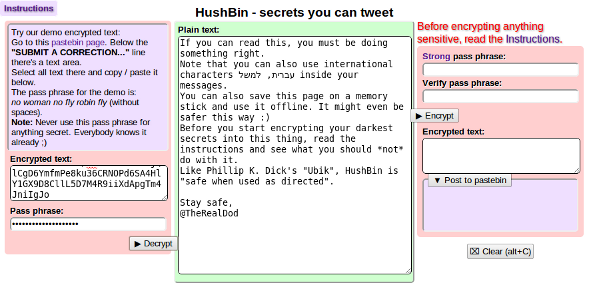
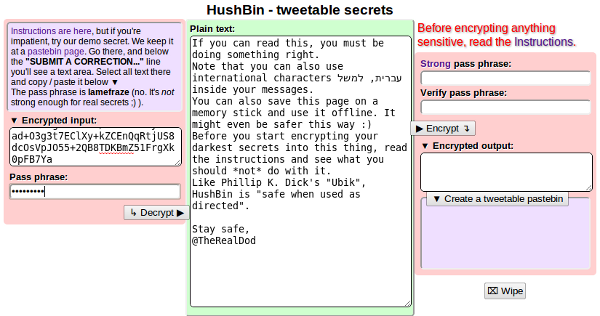
Momo's gui remarks

diff --git a/tidy.html b/tidy.html
@@ -7,7 +7,7 @@
   <meta http-equiv="Content-Type" content=
   "text/html; charset=us-ascii">
 
-  <title>HushBin - secrets you can tweet</title>
+  <title>HushBin - tweetable secrets</title>
   <style type="text/css">
 /*<![CDATA[*/
   /* Based on http://oocss.org */
@@ -29,12 +29,10 @@
   .page{width:auto}
   .rightCol{width:250px}
   .unit{margin:2px;padding: 4px;}
-  .leftCol{margin-right:4px}
-  .rightCol{margin-left:4px}
   /* Own styles */
   a {text-decoration:none}
   a:hover {text-decoration:underline}
-  .online{background-color:#efdfff; font-size:80%}
+  .online{background-color:#efdfff; font-size:12px}
   .crypt{background-color:#ffcfcf}
   .plainText{background-color:#cfffcf}
   .spiffy{color:#ff0000;text-shadow:gray 1px 1px 3px}
@@ -42,13 +40,12 @@
   .maxWidth{width:99%}
   .noScrollBar{overflow-y:hidden}
   .online,.crypt,.plainText,.maxWidth{-moz-border-radius:5px;-webkit-border-radius:5px}
-  #help{position:fixed;left:0;top:0;padding:4px 6px;font-weight:bold;border:solid white 1px;z-index:23}
   .inset{border:inset #efefef 2px}
   .outset{border:outset #efefef 2px}
   .pbResult{width:99%;height:60px;border:none}
   .head{font-weight:bold;text-align:center;font-size:120%}
-  .decButton{width:100%;text-align:right;position:relative;left:20px;top:4px}
-  .encButton{position:relative;left:-20px;top:4px}
+  .decButton{width:100%;text-align:right;position:relative;left:16px;top:4px}
+  .encButton{position:relative;left:-16px;top:4px}
   .pbButton{position:relative;top:-16px}
   .clearDiv{text-align:center;padding:8px 0}
   .clearButton{padding:2px}
@@ -175,9 +172,6 @@
   return true}
   show_message("Encrypt something first");
   return false}
-  // clear inputs
-  function _clear_aux(v){for (i in v) try{if (v[i].type=='password'||v[i].type.slice(0,4)=='text') v[i].value=''}catch(e){}}
-  function clear_inputs(){_clear_aux($$$('input'));_clear_aux($$$('textarea'))}
   // kb handlers
   function nop(){return false};
   function run_if_enter(f){if (window.event && window.event.keyCode==13){return f() && false}; return true}
@@ -191,13 +185,8 @@
 
 <body onload="init()">
   <div class="page">
-    <div id="help" class="online spiffy">
-      <a href=
-      "http://wiki.github.com/thedod/hushbin/">Instructions</a>
-    </div>
-
     <div class="head">
-      HushBin - secrets you can tweet
+      HushBin - tweetable secrets
     </div>
 
     <div class="body">
@@ -206,22 +195,25 @@
           <div class="unit crypt lastUnit">
             <div class="line">
               <div class="unit online inset lastUnit">
-                Try our demo encrypted text: Go to this <a href=
-                "http://pastebin.com/aNQiMXTZ">pastebin page</a>.
-                Below the <strong>"SUBMIT A CORRECTION..."</strong>
-                line there's a text area. Select all text there and
-                copy / paste it below.<br>
-                The pass phrase for the demo is: <em>no woman no
-                fly robin fly</em> (without spaces).<br>
-                <strong>Note:</strong> Never use this pass phrase
-                for anything secret. Everybody knows it already ;)
+                <a href=
+                "http://wiki.github.com/thedod/hushbin/">Instructions
+                are here</a>, but if you're impatient, try our demo
+                secret. We keep it at a <a href=
+                "http://pastebin.com/6YHi7Jxa">pastebin page</a>.
+                Go there, and below the <strong>"SUBMIT A
+                CORRECTION..."</strong> line you'll see a text
+                area. Select all text there and copy / paste it
+                below &#9660;<br>
+                The pass phrase is <strong>lamefraze</strong> (no.
+                It's <em>not</em> strong enough for real secrets ;)
+                ).
               </div>
             </div>
 
             <div class="line">
               <div class="unit lastUnit">
                 <div class="formLabel">
-                  Encrypted text:
+                  &#9660; Encrypted input:
                 </div>
 
                 <div>
@@ -243,7 +235,7 @@
 
                 <div class="decButton">
                   <input tabindex="3" onclick="do_decrypt()" type=
-                  "button" value="&#9654; Decrypt">
+                  "button" value="&#8627; Decrypt &#9654;">
                 </div>
               </div>
             </div>
@@ -252,9 +244,11 @@
       </div>
 
       <div class="rightCol">
-        <div class="spiffy">
-          Before encrypting anything sensitive, read the <a href=
-          "http://wiki.github.com/thedod/hushbin/">Instructions</a>.
+        <div class="line">
+          <div class="unit size1of1 spiffy lastUnit">
+            Before encrypting anything sensitive, read the <a href=
+            "http://wiki.github.com/thedod/hushbin/">Instructions</a>.
+          </div>
         </div>
 
         <div class="line">
@@ -284,7 +278,7 @@
 
                 <div class="encButton">
                   <input tabindex="7" onclick="do_encrypt()" type=
-                  "button" value="&#9654; Encrypt">
+                  "button" value="&#9654; Encrypt &#8628;">
                 </div>
               </div>
             </div>
@@ -296,7 +290,7 @@
                 "return run_if_enter(nop)" onsubmit=
                 "return validate_pastebin_form()" name="pb_form">
                   <div class="formLabel">
-                    Encrypted text:
+                    &#9660; Encrypted output:
                   </div>
 
                   <div>
@@ -311,13 +305,13 @@
                     <div class=
                     "unit size1of1 lastUnit online inset">
                       <input type="hidden" name="paste_name" value=
-                      "github/thedod/hushbin"> <input type="hidden"
-                      name="paste_private" value="1">
+                      "bit.ly/hushbin"> <input type="hidden" name=
+                      "paste_private" value="1">
 
                       <div class="pbButton">
                         <input tabindex="9" id="pastebin_button"
                         type="submit" value=
-                        "&#9660; Post to pastebin">
+                        "&#9660; Create a tweetable pastebin">
                       </div><iframe class="pbResult" id="pb_result"
                       name="pb_result"></iframe>
                     </div>
@@ -329,8 +323,8 @@
 
           <div class="clearDiv">
             <input tabindex="10" type="button" class="clearButton"
-            onclick="clear_inputs()" value="&#8999; Clear"
-            accesskey="c">
+            onclick="window.location.reload()" value="&#8999; Wipe"
+            accesskey="w">
           </div>
         </div>
       </div>
@@ -341,7 +335,7 @@
             <div class="formLabel">
               Plain text:
             </div>
-            <textarea tabindex="4" cols="23" rows="25" id=
+            <textarea tabindex="4" cols="23" rows="23" id=
             "plaintext" class="maxWidth">
 </textarea>
           </div>

diff --git a/hushbin.html b/hushbin.html
@@ -2,7 +2,7 @@
 <html lang="en">
 <head>
 <meta http-equiv="Content-Type" content="text/html; charset=utf-8"/>
-<title>HushBin - secrets you can tweet</title>
+<title>HushBin - tweetable secrets</title>
 <style type="text/css">
 /*<![CDATA[*/
 /* Based on http://oocss.org */
@@ -24,12 +24,10 @@ body{_text-align:center;}/* IE5.5 */
 .page{width:auto}
 .rightCol{width:250px}
 .unit{margin:2px;padding: 4px;}
-.leftCol{margin-right:4px}
-.rightCol{margin-left:4px}
 /* Own styles */
 a {text-decoration:none}
 a:hover {text-decoration:underline}
-.online{background-color:#efdfff; font-size:80%}
+.online{background-color:#efdfff; font-size:12px}
 .crypt{background-color:#ffcfcf}
 .plainText{background-color:#cfffcf}
 .spiffy{color:#ff0000;text-shadow:gray 1px 1px 3px}
@@ -37,13 +35,12 @@ a:hover {text-decoration:underline}
 .maxWidth{width:99%}
 .noScrollBar{overflow-y:hidden}
 .online,.crypt,.plainText,.maxWidth{-moz-border-radius:5px;-webkit-border-radius:5px}
-#help{position:fixed;left:0;top:0;padding:4px 6px;font-weight:bold;border:solid white 1px;z-index:23}
 .inset{border:inset #efefef 2px}
 .outset{border:outset #efefef 2px}
 .pbResult{width:99%;height:60px;border:none}
 .head{font-weight:bold;text-align:center;font-size:120%}
-.decButton{width:100%;text-align:right;position:relative;left:20px;top:4px}
-.encButton{position:relative;left:-20px;top:4px}
+.decButton{width:100%;text-align:right;position:relative;left:16px;top:4px}
+.encButton{position:relative;left:-16px;top:4px}
 .pbButton{position:relative;top:-16px}
 .clearDiv{text-align:center;padding:8px 0}
 .clearButton{padding:2px}
@@ -170,9 +167,6 @@ if ($$('out-cipher').value.trim().length){
 return true}
 show_message("Encrypt something first");
 return false}
-// clear inputs
-function _clear_aux(v){for (i in v) try{if (v[i].type=='password'||v[i].type.slice(0,4)=='text') v[i].value=''}catch(e){}}
-function clear_inputs(){_clear_aux($$$('input'));_clear_aux($$$('textarea'))}
 // kb handlers
 function nop(){return false};
 function run_if_enter(f){if (window.event && window.event.keyCode==13){return f() && false}; return true}
@@ -185,34 +179,31 @@ for (i in linx){l=linx[i]; if (l.href && !l.href.match('#'))l.target='_blank'}}
 </head>
 <body onload="init()">
 <div class="page">
-<div id="help" class="online spiffy">
-<a href="http://wiki.github.com/thedod/hushbin/">Instructions</a></div>
 <div class="head">
-HushBin - secrets you can tweet</div>
+HushBin - tweetable secrets</div>
 <div class="body">
 <div class="leftCol">
 <div class="line"><div class="unit crypt lastUnit">
 <div class="line"><div class="unit online inset lastUnit">
-Try our demo encrypted text: Go to this <a href="http://pastebin.com/aNQiMXTZ">pastebin page</a>.
-Below the <strong>"SUBMIT A CORRECTION..."</strong>
-line there's a text area. Select all text there and copy / paste it below.<br/>
-The pass phrase for the demo is:
-<em>no woman no fly robin fly</em> (without
-spaces).<br/>
-<strong>Note:</strong> Never use this pass phrase
-for anything secret. Everybody knows it already ;)</div></div>
+<a href="http://wiki.github.com/thedod/hushbin/">Instructions are here</a>, but if you're impatient,
+try our demo secret. We keep it at a <a href="http://pastebin.com/6YHi7Jxa">pastebin page</a>.
+Go there, and below the <strong>"SUBMIT A CORRECTION..."</strong> line you'll see a text area.
+Select all text there and copy / paste it below &#9660;<br/>
+The pass phrase is <strong>lamefraze</strong> (no. It's <em>not</em> strong enough for real secrets ;) ).
+</div></div>
 <div class="line">
 <div class="unit lastUnit">
 <div class="formLabel">
-Encrypted text:</div>
+&#9660; Encrypted input:</div>
 <div>
 <textarea tabindex="1" id="in-cipher" cols="5" rows="3" class="maxWidth noScrollBar" onclick="this.select()"></textarea></div>
 <div class="formLabel">Pass phrase:</div>
 <div><input tabindex="2" class="maxWidth" type="password" id="in-key" onkeypress="run_if_enter(do_decrypt)"/></div>
 <div class="decButton">
-<input tabindex="3" onclick="do_decrypt()" type="button" value="&#9654; Decrypt"/></div></div></div></div></div></div>
+<input tabindex="3" onclick="do_decrypt()" type="button" value="&#8627; Decrypt &#9654;"/></div></div></div></div></div></div>
 <div class="rightCol">
-<div class="spiffy">Before encrypting anything sensitive, read the <a href="http://wiki.github.com/thedod/hushbin/">Instructions</a>.</div>
+<div class="line">
+<div class="unit size1of1 spiffy lastUnit">Before encrypting anything sensitive, read the <a href="http://wiki.github.com/thedod/hushbin/">Instructions</a>.</div></div>
 <div class="line"><div class="unit size1of1 lastUnit crypt">
 <div class="line"><div class="unit size1of1 lastUnit">
 <div class="formLabel">
@@ -222,22 +213,22 @@ Encrypted text:</div>
 <div><input tabindex="6" class="maxWidth" type="password" id="out-key-verify"
 onkeypress="return run_if_enter(do_encrypt)"/></div>
 <div class="encButton">
-<input tabindex="7" onclick="do_encrypt()" type="button" value="&#9654; Encrypt"/></div></div></div>
+<input tabindex="7" onclick="do_encrypt()" type="button" value="&#9654; Encrypt &#8628;"/></div></div></div>
 <div class="line"><div class="unit size1of1 lastUnit">
 <form id="pb_form" method="post" action="http://pastebin.com/api_public.php" onkeypress="return run_if_enter(nop)" onsubmit="return validate_pastebin_form()" name="pb_form">
-<div class="formLabel">Encrypted text:</div>
+<div class="formLabel">&#9660; Encrypted output:</div>
 <div><textarea tabindex="8" name="paste_code" id="out-cipher" cols="5" rows="3" class="maxWidth noScrollBar"
 readonly="readonly" onclick="this.select()"></textarea></div>
 <div class="line"><div class="unit size1of1 lastUnit online inset">
-<input type="hidden" name="paste_name" value="github/thedod/hushbin"/>
+<input type="hidden" name="paste_name" value="bit.ly/hushbin"/>
 <input type="hidden" name="paste_private" value="1"/>
-<div class="pbButton"><input tabindex="9" id="pastebin_button" type="submit" value="&#9660; Post to pastebin"/></div>
+<div class="pbButton"><input tabindex="9" id="pastebin_button" type="submit" value="&#9660; Create a tweetable pastebin"/></div>
 <iframe class="pbResult" id="pb_result" name="pb_result"></iframe></div></div></form></div></div></div>
-<div class="clearDiv"><input tabindex="10" type="button" class="clearButton" onclick="clear_inputs()"
-value="&#8999; Clear" accesskey="c"/></div></div></div>
+<div class="clearDiv"><input tabindex="10" type="button" class="clearButton" onclick="window.location.reload()"
+value="&#8999; Wipe" accesskey="w"/></div></div></div>
 <div class="main">
 <div class="line"><div class="unit size1of1 plainText outset lastUnit">
 <div class="formLabel">Plain text:</div>
-<textarea tabindex="4" cols="23" rows="25" id="plaintext" class="maxWidth"></textarea></div></div></div></div></div>
+<textarea tabindex="4" cols="23" rows="23" id="plaintext" class="maxWidth"></textarea></div></div></div></div></div>
 </body>
 </html>
